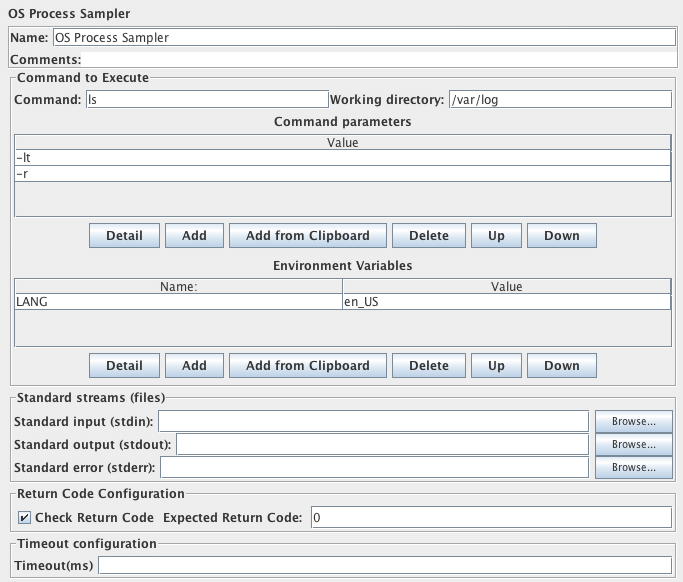
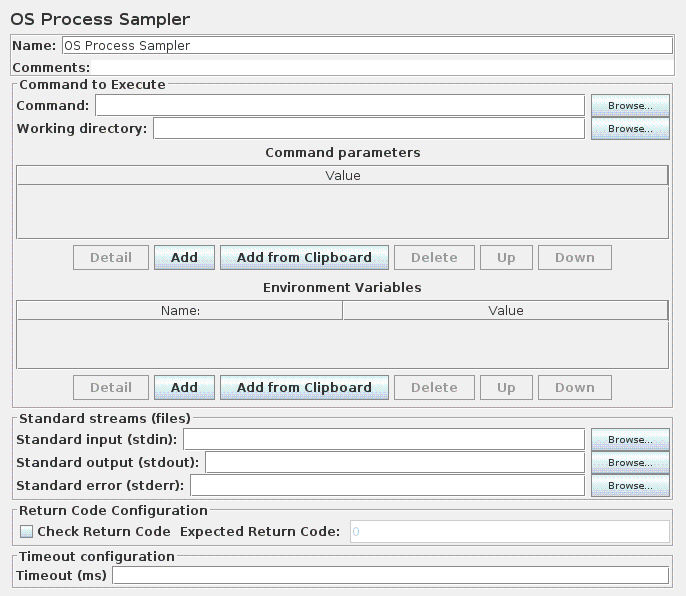
This closes #307 : OS Process Sampler : Add browser button to Command and Working directory fields
git-svn-id: https://svn.apache.org/repos/asf/jmeter/trunk@1808479 13f79535-47bb-0310-9956-ffa450edef68

Changed region(s): [[0.0, 0.0, 1.0, 1.0]]

diff --git a/src/protocol/native/org/apache/jmeter/protocol/system/gui/SystemSamplerGui.java b/src/protocol/native/org/apache/jmeter/protocol/system/gui/SystemSamplerGui.java
@@ -60,8 +60,8 @@ public class SystemSamplerGui extends AbstractSamplerGui implements ItemListener
     private final FilePanelEntry stdin = new FilePanelEntry(JMeterUtils.getResString("system_sampler_stdin")); // $NON-NLS-1$
     private final FilePanelEntry stdout = new FilePanelEntry(JMeterUtils.getResString("system_sampler_stdout")); // $NON-NLS-1$
     private final FilePanelEntry stderr = new FilePanelEntry(JMeterUtils.getResString("system_sampler_stderr")); // $NON-NLS-1$
-    private JLabeledTextField directory;
-    private JLabeledTextField command;
+    private final FilePanelEntry directory = new FilePanelEntry(JMeterUtils.getResString("directory_field_title"), true); // $NON-NLS-1$
+    private final FilePanelEntry command = new FilePanelEntry(JMeterUtils.getResString("command_field_title")); // $NON-NLS-1$
     private JLabeledTextField timeout;
     private ArgumentsPanel argsPanel;
     private ArgumentsPanel envPanel;
@@ -123,10 +123,10 @@ public class SystemSamplerGui extends AbstractSamplerGui implements ItemListener
         } else {
             systemSampler.setExpectedReturnCode(SystemSampler.DEFAULT_RETURN_CODE);
         }
-        systemSampler.setCommand(command.getText());
+        systemSampler.setCommand(command.getFilename());
         systemSampler.setArguments((Arguments)argsPanel.createTestElement());
         systemSampler.setEnvironmentVariables((Arguments)envPanel.createTestElement());
-        systemSampler.setDirectory(directory.getText());
+        systemSampler.setDirectory(directory.getFilename());
         systemSampler.setStdin(stdin.getFilename());
         systemSampler.setStdout(stdout.getFilename());
         systemSampler.setStderr(stderr.getFilename());
@@ -147,10 +147,10 @@ public class SystemSamplerGui extends AbstractSamplerGui implements ItemListener
         checkReturnCode.setSelected(systemSampler.getCheckReturnCode());
         desiredReturnCode.setText(Integer.toString(systemSampler.getExpectedReturnCode()));
         desiredReturnCode.setEnabled(checkReturnCode.isSelected());
-        command.setText(systemSampler.getCommand());
+        command.setFilename(systemSampler.getCommand());
         argsPanel.configure(systemSampler.getArguments());
         envPanel.configure(systemSampler.getEnvironmentVariables());
-        directory.setText(systemSampler.getDirectory());
+        directory.setFilename(systemSampler.getDirectory());
         stdin.setFilename(systemSampler.getStdin());
         stdout.setFilename(systemSampler.getStdout());
         stderr.setFilename(systemSampler.getStderr());
@@ -201,12 +201,10 @@ public class SystemSamplerGui extends AbstractSamplerGui implements ItemListener
         cmdPanel.setLayout(new BoxLayout(cmdPanel, BoxLayout.X_AXIS));
 
         JPanel cmdWkDirPane = new JPanel(new BorderLayout());
-        command = new JLabeledTextField(JMeterUtils.getResString("command_field_title")); // $NON-NLS-1$
-        cmdWkDirPane.add(command, BorderLayout.CENTER);
-        directory = new JLabeledTextField(JMeterUtils.getResString("directory_field_title")); // $NON-NLS-1$
-        cmdWkDirPane.add(directory, BorderLayout.EAST);
+        cmdWkDirPane.add(command, BorderLayout.NORTH);
+        cmdWkDirPane.add(directory, BorderLayout.SOUTH);
         cmdPanel.add(cmdWkDirPane);
-        
+
         JPanel panel = new VerticalPanel();
         panel.setBorder(BorderFactory.createTitledBorder(
                 BorderFactory.createEtchedBorder(),
@@ -216,6 +214,7 @@ public class SystemSamplerGui extends AbstractSamplerGui implements ItemListener
         panel.add(makeEnvironmentPanel(), BorderLayout.SOUTH);
         return panel;
     }
+
     
     /**
      * @return JPanel Arguments Panel
@@ -260,8 +259,8 @@ public class SystemSamplerGui extends AbstractSamplerGui implements ItemListener
     @Override
     public void clearGui() {
         super.clearGui();
-        directory.setText(""); // $NON-NLS-1$
-        command.setText(""); // $NON-NLS-1$
+        directory.clearGui();
+        command.clearGui();
         argsPanel.clearGui();
         envPanel.clearGui();
         desiredReturnCode.setText(""); // $NON-NLS-1$
